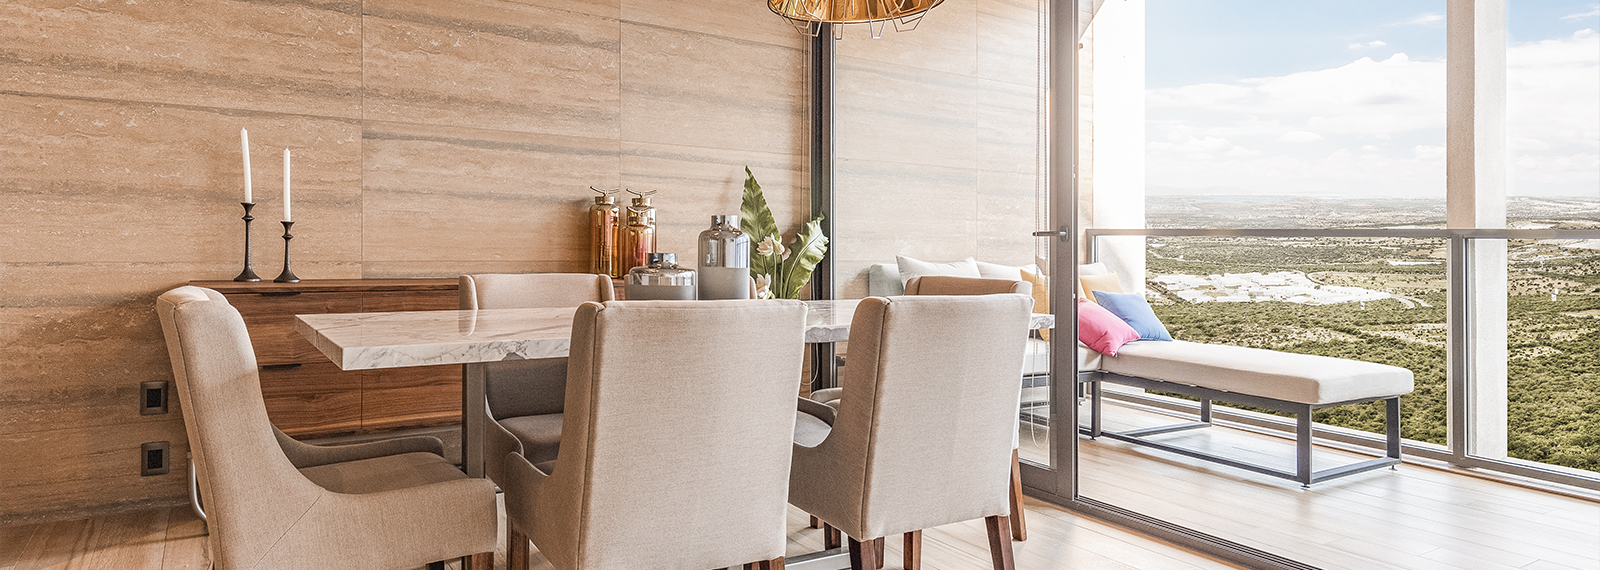
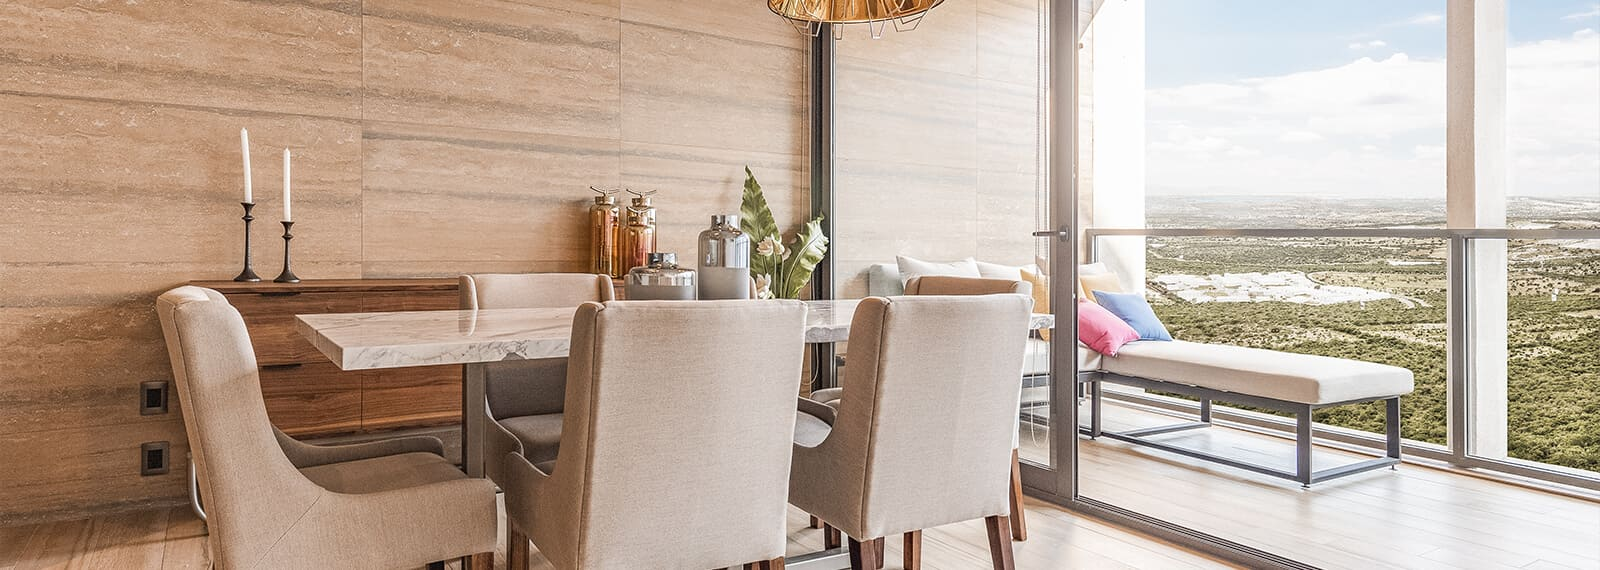
Optimización para mailing

diff --git a/resources/views/home/index.blade.php b/resources/views/home/index.blade.php
@@ -56,21 +56,21 @@
             <source srcset="{{ asset('img/home/HIGH-GARDENS-DEVARANA.jpg') }}" type="image/jpeg" media="(min-width: 600px)">
             <source srcset="{{ asset('img/mobile/home/HIGH-GARDENS-DEVARANA.webp') }}" type="image/webp">
             <source srcset="{{ asset('img/mobile/home/HIGH-GARDENS-DEVARANA.jpg') }}" type="image/jpeg">
-                <img src="{{ asset("img/home/HIGH-GARDENS-DEVARANA.jpg") }}" alt="High Gardens" class="mt-4 px-2 md:px-4 md:mt-16 w-full">
+            <img src="{{ asset("img/home/HIGH-GARDENS-DEVARANA.jpg") }}" alt="High Gardens" class="mt-4 px-2 md:px-4 md:mt-16 w-full">
         </picture>
         <picture>
             <source srcset="{{ asset('img/home/GRAND-MAYRAN-DEVARANA.webp') }}" type="image/webp" media="(min-width: 600px)">
             <source srcset="{{ asset('img/home/GRAND-MAYRAN-DEVARANA.jpg') }}" type="image/jpeg" media="(min-width: 600px)">
             <source srcset="{{ asset('img/mobile/home/GRAND-MAYRAN-DEVARANA.webp') }}" type="image/webp">
             <source srcset="{{ asset('img/mobile/home/GRAND-MAYRAN-DEVARANA.jpg') }}" type="image/jpeg">
-                <img src="{{ asset("img/home/GRAND-MAYRAN-DEVARANA.jpg") }}" alt="Grand Mayran" class="px-2 md:px-4 w-full">
+            <img src="{{ asset("img/home/GRAND-MAYRAN-DEVARANA.jpg") }}" alt="Grand Mayran" class="px-2 md:px-4 w-full">
         </picture>
         <picture>
             <source srcset="{{ asset('img/home/devarana-royalview.webp') }}" type="image/webp" media="(min-width: 600px)">
             <source srcset="{{ asset('img/home/devarana-royalview.jpg') }}" type="image/jpeg" media="(min-width: 600px)">
             <source srcset="{{ asset('img/mobile/home/devarana-royalview.webp') }}" type="image/webp">
             <source srcset="{{ asset('img/mobile/home/devarana-royalview.jpg') }}" type="image/jpeg">
-                <img src="{{ asset("img/home/devarana-royalview.jpg") }}" alt="Royal View" class="mt-6 px-2 md:px-4 md:mt-28 w-full">
+            <img src="{{ asset("img/home/devarana-royalview.jpg") }}" alt="Royal View" class="mt-6 px-2 md:px-4 md:mt-28 w-full">
         </picture>        
        </div>
     </div>
@@ -88,7 +88,6 @@
                     <picture>
                         <source srcset="{{ asset('img/home/SOMOS-DEVARANA.webp') }}" type="image/webp" media="(min-width: 600px)">
                         <source srcset="{{ asset('img/home/SOMOS-DEVARANA.jpg') }}" type="image/jpeg" media="(min-width: 600px)">
-
                         <source srcset="{{ asset('img/mobile/home/SOMOS-DEVARANA.webp') }}" type="image/webp">
                         <source srcset="{{ asset('img/mobile/home/SOMOS-DEVARANA.jpg') }}" type="image/jpeg">
                         <img src="{{ asset("img/home/SOMOS-DEVARANA.jpg") }}" alt="Devarana Oficinas" class="md:px-10 drop-shadow-md object-cover">

diff --git a/resources/views/layouts/footer.blade.php b/resources/views/layouts/footer.blade.php
@@ -38,26 +38,23 @@
     </div>
 
     <div class="relative">
-        {{-- <div class="fixed right-4 bottom-4 z-30"> --}}
             <div class="z-30 fixed bottom-[11rem] md:bottom-[6rem] -right-96 w-16 h-16 bg-devarana-pink rounded-full my-2 content-center transition-all duration-200 socialGroup">
                 <a href="https://goo.gl/maps/Bh3TQZ6yuxSqBuSU9" target="_blank" rel="noopener noreferrer">
-                    <img src="{{ asset("img/icons/map-b.svg") }}" alt="" class="w-full p-5">
+                    <img src="{{ asset("img/icons/map-b.svg") }}" alt="Google Maps Devarana" class="w-full p-5">
                 </a>
             </div>
             <div class="z-30 fixed bottom-[16rem] md:bottom-[11rem] -right-96 w-16 h-16 bg-devarana-pink rounded-full my-2 content-center transition-all duration-300 socialGroup">
                 <a href="https://www.facebook.com/DevaranaResidences/" target="_blank" rel="noopener noreferrer">
-                    <img src="{{ asset("img/icons/facebook-b.svg") }}" alt="" class="w-full p-5">
+                    <img src="{{ asset("img/icons/facebook-b.svg") }}" alt="Facebook Devarana" class="w-full p-5">
                 </a>
             </div>
             <div class="z-30 fixed bottom-[21rem] md:bottom-[16rem] -right-96 w-16 h-16 bg-devarana-pink rounded-full my-2 content-center transition-all duration-500 socialGroup">
                 <a href="https://www.instagram.com/devarana.mx/?hl=es" target="_blank" rel="noopener noreferrer">
-                    <img src="{{ asset("img/icons/instagram-b.svg") }}" alt="" class="w-full p-5">
+                    <img src="{{ asset("img/icons/instagram-b.svg") }}" alt="Instagram Devarana" class="w-full p-5">
                 </a>
             </div>
             <button class="fixed right-4 bottom-[6rem] md:bottom-[1rem] z-30 w-16 h-16 bg-devarana-pink rounded-full my-2 flex content-center m-auto" id="social">
-                <img src="{{ asset("img/icons/siguenos-b.svg") }}" alt="" class="w-full p-1">
-                {{-- <p class="m-auto text-devarana-pearl text-sm">Síguenos</p> --}}
+                <img src="{{ asset("img/icons/siguenos-b.svg") }}" alt="Siguenos" class="w-full p-1">
             </button>
-        {{-- </div> --}}
     </div>
 </footer>

diff --git a/resources/views/emails/contacto.blade.php b/resources/views/emails/contacto.blade.php
@@ -1,17 +1,24 @@
 <!DOCTYPE html>
-<html lang="en">
+<html lang="es">
 <head>
     <meta charset="UTF-8">
     <meta name="viewport" content="width=device-width, initial-scale=1.0">
     <meta http-equiv="X-UA-Compatible" content="ie=edge">
     <title>Contacto Web Devarana</title>
+    <link rel="preconnect" href="https://fonts.googleapis.com">
+    <link rel="preconnect" href="https://fonts.gstatic.com" crossorigin>
+    <link href="https://fonts.googleapis.com/css2?family=Mulish&family=Playfair+Display&display=swap" rel="stylesheet">
 </head>
-<body>
-
-    <h1>{{ $data['name'] }}</h1>
-    <h2>{{ $data['email'] }}</h2>
-    <h2>{{ $data['phone'] }}</h2>
-    <h2>{{ $data['message'] }}</h2>
-    
+<style>
+    @import url('https://fonts.googleapis.com/css2?family=Mulish&family=Playfair+Display&display=swap');
+</style>
+<body style="background-color: #f9f9f7;padding: 10px">
+    <div style="max-width:800px; width: 100%; margin:auto">
+        <h1 style="font-weight: normal; color:#d64767;font-family:'Playfair Display', serif;text-align: center;font-size: 30px;margin: 15px 0px;">Contacto Devarana.mx</h1>
+        <p style="color:#656a76;font-family: 'Mulish', sans-serif;font-size: 18px;margin:0;">Nombre: {{ $data['name'] }}</p>
+        <p style="color:#656a76;font-family: 'Mulish', sans-serif;font-size: 18px;margin:0;">Email: <a style="color:#656a76;" href="mailto:{{ $data['email'] }}">{{ $data['email'] }}</a></p>
+        <p style="color:#656a76;font-family: 'Mulish', sans-serif;font-size: 18px;margin:0;">Teléfono: <a style="color:#656a76;" href="tel:{{ $data['phone'] }}">{{ $data['phone'] }}</a></p>
+        <p style="color:#656a76;font-family: 'Mulish', sans-serif;font-size: 18px;margin:0;">Mensaje: {{ $data['message'] }}</p>
+    </div>
 </body>
 </html>

diff --git a/resources/views/emails/contacto_cliente.blade.php b/resources/views/emails/contacto_cliente.blade.php
@@ -1,0 +1,27 @@
+<!DOCTYPE html>
+<html>
+<head>
+    <meta charset="UTF-8">
+    <meta name="viewport" content="width=device-width, initial-scale=1.0">
+    <meta http-equiv="X-UA-Compatible" content="ie=edge">
+    <title>Contacto Web Devarana</title>
+    <link rel="preconnect" href="https://fonts.googleapis.com">
+    <link rel="preconnect" href="https://fonts.gstatic.com" crossorigin>
+    <link href="https://fonts.googleapis.com/css2?family=Mulish&family=Playfair+Display&display=swap" rel="stylesheet">
+</head>
+<style>
+    @import url('https://fonts.googleapis.com/css2?family=Mulish&family=Playfair+Display&display=swap');
+</style>
+<body style="background-color: #f9f9f7; padding:10px 10px;">
+    <div style="max-width:800px; width: 100%; margin:auto;">
+        <h1 style="font-weight: normal; color:#d64767;font-family:'Playfair Display', serif;text-align: center;font-size: 36px;margin: 0;">Gracias</h1>
+        <h2 style="font-weight: normal; color:#d64767;font-family:'Playfair Display', serif;text-align: center;font-size: 36px;margin: 0;"> ¡Seguimos a tus órdenes! </h2>
+        <p style="color:#656a76;text-align: center; font-size: 18px;font-family: 'Mulish', sans-serif;padding-top: 30px;"> En breve nos pondremos en contacto contigo</p>
+        <p style="font-family: 'Mulish', sans-serif;color:#656a76;text-align: center; font-size: 18px;padding-top: 50px;">
+            Visita <a style="color:#fabcab;" href="https://goo.gl/maps/QRhFyqeL7Zfp7Zug7">Showroom</a> todos los días de 10am a 7pm
+        </p>
+        <p style="text-align:center;font-size:18px;font-family: 'Mulish', sans-serif;padding-top: 20px;"><a style="color:#656a76;text-decoration:none;" href="https://devarana.mx">devarana.mx</a></p>
+    </div>
+    
+</body>
+</html>

diff --git a/resources/views/gracias.blade.php b/resources/views/gracias.blade.php
@@ -10,10 +10,6 @@
     <x-nav class="bg-transparent text-devarana-pearl">    
         <x-logo-nav class="w-[50px] h-[50px]" > </x-logo-nav>
     </x-nav>
-
-{{-- <div id="header" class="h-[150px] bg-devarana-hazelnut"></div> --}}
-
-
 <div class="bg-devarana-blue text-justify h-screen flex mb-14">
     <div class="max-w-[450px] m-auto">
         <h1 class="text-7xl text-devarana-pearl text-center py-5">Gracias</h1>
@@ -29,12 +25,7 @@
             @endif
             <img src="{{ asset("img/logos/Isotipo_blanco.png") }}" alt="" class="w-[40px] my-auto">
         </div>
-        <x-link href="/" class="text-center justify-center max-w-[240px] mx-auto"> Volver al Home </x-link>
+        <x-link href="/" class="text-center justify-center max-w-[240px] mx-auto"> Volver al home </x-link>
     </div>
 </div>
-@endsection
-    
-
-@section("scripts")
-
 @endsection

diff --git a/app/Mail/ClientMail.php b/app/Mail/ClientMail.php
@@ -7,19 +7,18 @@ use Illuminate\Contracts\Queue\ShouldQueue;
 use Illuminate\Mail\Mailable;
 use Illuminate\Queue\SerializesModels;
 
-class DevaranaMail extends Mailable
+class ClientMail extends Mailable
 {
     use Queueable, SerializesModels;
 
-    public $data;
     /**
      * Create a new message instance.
      *
      * @return void
      */
-    public function __construct($data)
+    public function __construct()
     {
-        $this->data = $data;
+        //
     }
 
     /**
@@ -29,6 +28,6 @@ class DevaranaMail extends Mailable
      */
     public function build()
     {
-        return $this->subject('LEAD Devarana.mx')->replyTo($this->data['email'])->view('emails.contacto');
+        return $this->subject('Estamos felices de atenderte - Devarana')->view('emails.contacto_cliente');
     }
 }

diff --git a/app/Http/Controllers/MailerController.php b/app/Http/Controllers/MailerController.php
@@ -4,12 +4,14 @@ namespace App\Http\Controllers;
 
 use App\Http\Requests\MailerRequest;
 use App\Mail\DevaranaMail;
+use App\Mail\ClientMail;
 use Illuminate\Support\Facades\Mail;
 
 class MailerController extends Controller
 {
     public function contactoForm(MailerRequest $request){
         $data = $request->all();
+        Mail::to($data['email'])->send(new ClientMail());
         Mail::to('abrahamalvarado@devarana.mx')->send(new DevaranaMail($data));
         return redirect('gracias')->with('success', 'Estamos felices de atenderte, nos comunicaremos contigo a la brevedad.');
     }

diff --git a/resources/views/nuestra-trayectoria/index.blade.php b/resources/views/nuestra-trayectoria/index.blade.php
@@ -334,7 +334,9 @@
 
 @section('styles')
     <link rel="stylesheet" href="https://unpkg.com/swiper/swiper-bundle.min.css" />
-    <link rel="stylesheet" href="{{ asset("css/nuestra-trayectoria.css")}}" />
+    <link rel="preload" href="{{ asset('css/nuestra-trayectoria.css') }}" as="style" onload="this.onload=null;this.rel='stylesheet'">
+    <noscript><link rel="stylesheet" href="{{ asset('css/nuestra-trayectoria.css') }}"></noscript>
+    {{-- <link rel="stylesheet" href="{{ asset("css/nuestra-trayectoria.css")}}" /> --}}
 @endsection
 
     @section("scripts")
